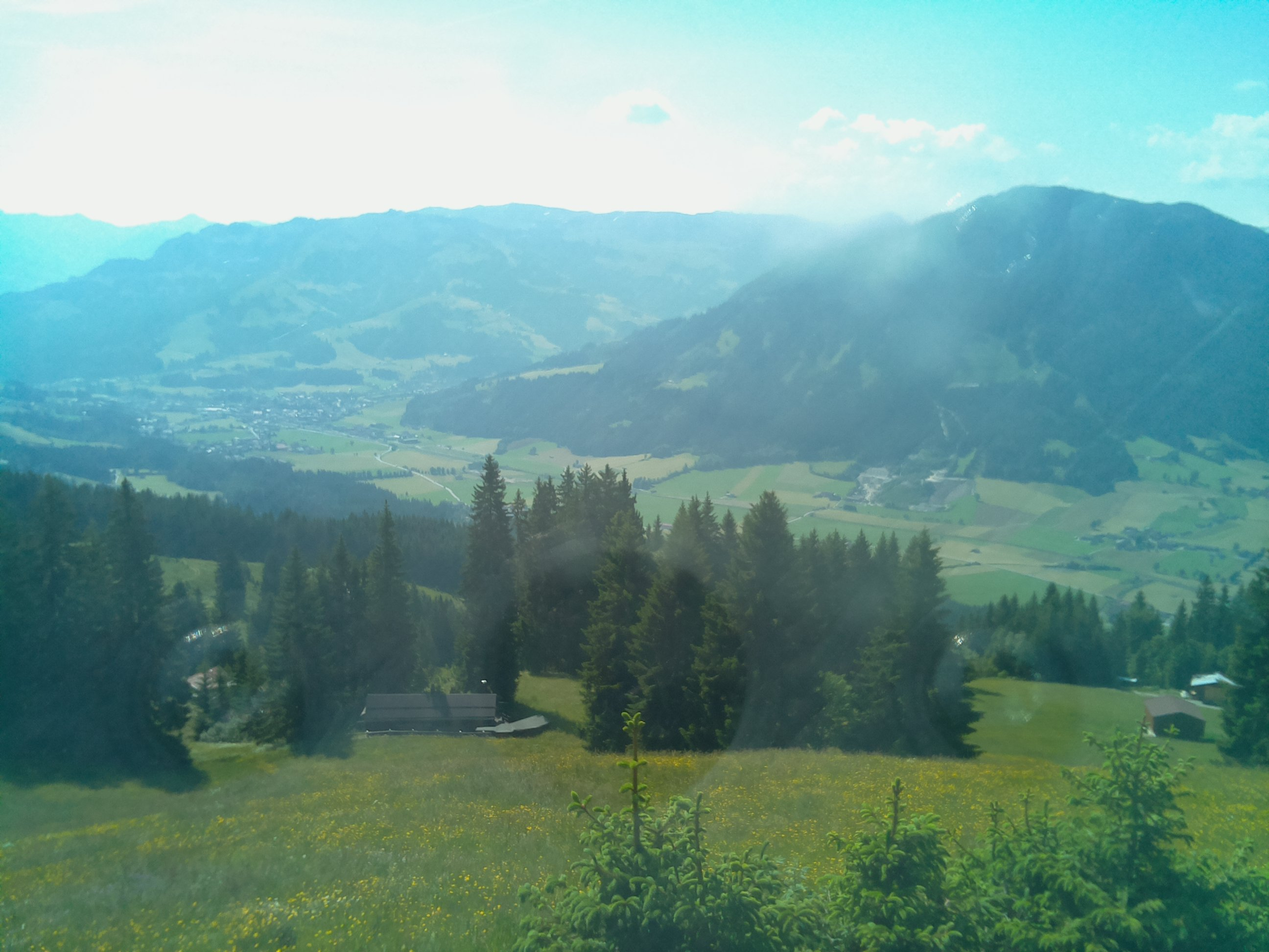
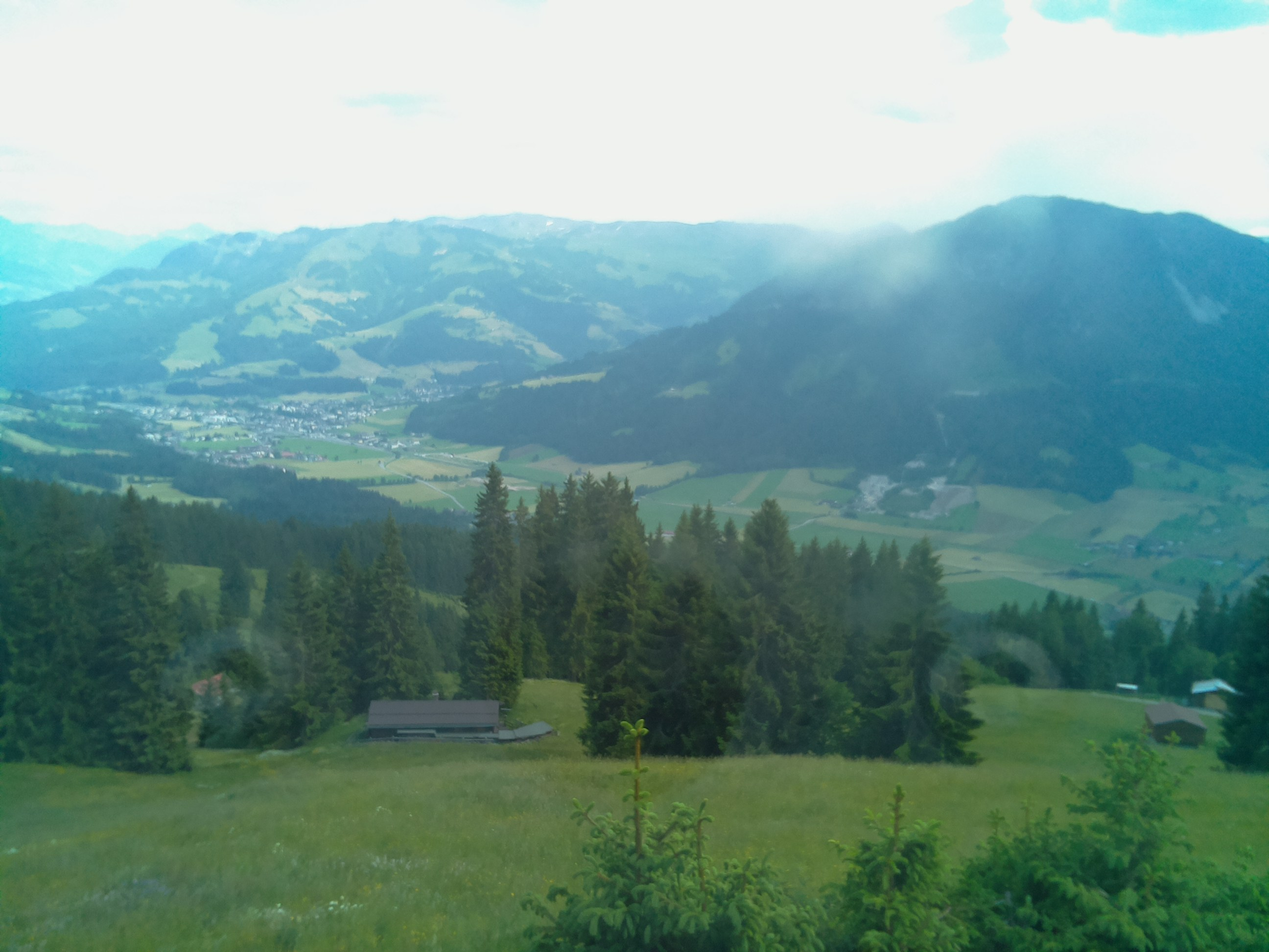
I'm a bot beep boop

diff --git a/resources/huette.md b/resources/huette.md
@@ -6,13 +6,13 @@ image: '/assets/img/'
 description: 'Live image from the Austrian alps'
 twitter_text: ' '
 ---
-## Latest image from 18 June 2021 at 10:12
+## Latest image from 18 June 2021 at 16:12
 <div class="huette">
   <div class="huette-image">
     <img src="{{ "/assets/img/huette.jpg" | prepend: site.baseurl }}">
   </div>
   <div class="huette-text">
-        <h2>Current Temperature: 24.125°C</h2>
+        <h2>Current Temperature: 23.5°C</h2>
         <p>A solar powered raspberry pi left alone in the wild is sending daily images and temperature data to this website. It should give you an impression about the current weather in the "Brixental".</p>
 
   </div>

diff --git a/rpi-script/huette.md b/rpi-script/huette.md
@@ -6,13 +6,13 @@ image: '/assets/img/'
 description: 'Live image from the Austrian alps'
 twitter_text: ' '
 ---
-## Latest image from 18 June 2021 at 10:12
+## Latest image from 18 June 2021 at 16:12
 <div class="huette">
   <div class="huette-image">
     <img src="{{ "/assets/img/huette.jpg" | prepend: site.baseurl }}">
   </div>
   <div class="huette-text">
-        <h2>Current Temperature: 24.125°C</h2>
+        <h2>Current Temperature: 23.5°C</h2>
         <p>A solar powered raspberry pi left alone in the wild is sending daily images and temperature data to this website. It should give you an impression about the current weather in the "Brixental".</p>
 
   </div>
